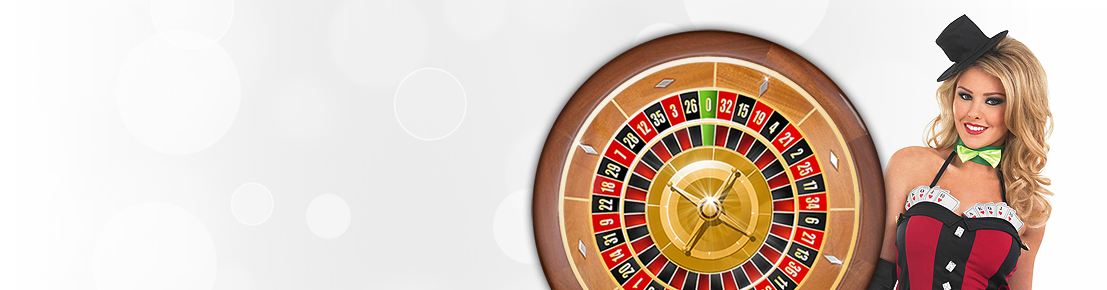
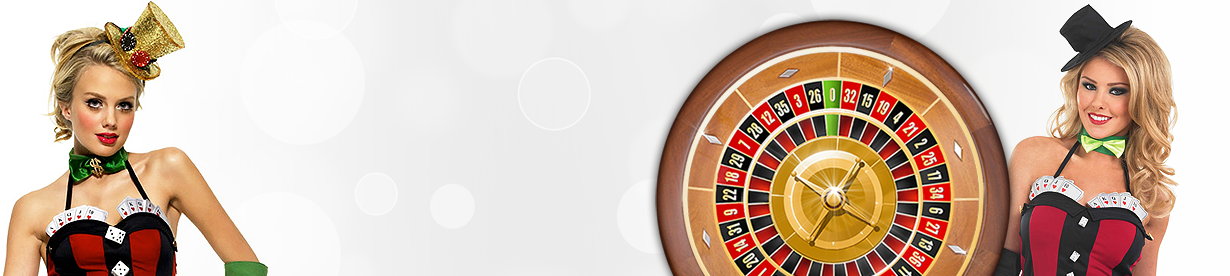
v 0.1

diff --git a/css/custom-styles.css b/css/custom-styles.css
@@ -208,26 +208,21 @@
     background-size: cover;
     margin: 0 5px 0 0;
 }
-.slider-winner .slick-arrow {
+.slider-winner-controls {
     display: block;
-    font-size: 0;
-    width: 6px;
-    height: 9px;
+    font-size: 20px;
     position: absolute;
-    top: 0;
+    top: 3px;
     bottom: 0;
     margin: auto;
     cursor: pointer;
     z-index: 10;
+    color: #ffffff;
 }
-.slider-winner .slick-prev {
-    background: transparent url('../source/images/controls-small.png') no-repeat left center;
-    background-size: cover;
+.slider-winner-left {
     left: 0;
 }
-.slider-winner .slick-next {
-    background: transparent url('../source/images/controls-small.png') no-repeat right center;
-    background-size: cover;
+.slider-winner-right {
     right: 0;
 }
 
@@ -341,7 +336,7 @@
 }
 
 .header-bottom {
-    background: #f7c437 url('../source/images/header-bottom-texture.png') repeat;
+    background: url('../source/images/header-bottom-texture.png') repeat;
 }
 .header-bottom .wrapper-inner {
     padding: 25px 0;
@@ -492,21 +487,79 @@
 ******************************/
 
 .slider-banner {
-    height: 290px;
     width: 100%;
 }
 .slider-banner .slide {
     width: 100%;
     height: 100%;
+    padding: 30px 0;
+}
+.slider-banner .slide-1 {
+    background: url('../source/images/slide-background.png') no-repeat right bottom;
+    background-size: auto 100%;
 }
 .slider-banner .slide-1 .promo-text {
-
+    width: 330px;
+    margin-left: 320px;
+}
+.slider-banner .slide-1 .promo-text p {
+    font-size: 27px;
+    font-family: 'OpenSans SemiBold', sans-serif;
+    line-height: 1.2;
+}
+.slider-banner .slide-1 .promo-text p strong {
+    font-family: 'Exo2 SemiBold', sans-serif;
+    font-size: 52px;
+    color: #ed7400;
+    text-transform: uppercase;
+    padding-bottom: 10px;
+    line-height: 1;
+}
+.slider-banner .slide-1 .promo-text button {
+    display: block;
+    width: 220px;
+    height: 60px;
+    line-height: 60px;
+    background: #f7c437 url('../source/images/button-yellow-texture.png') repeat top left;
+    background-size: auto 100%;
+    -webkit-border-radius: 50px;
+    -moz-border-radius: 50px;
+    border-radius: 50px;
+    color: #000000;
+    text-transform: uppercase;
+    font-size: 25px;
+    margin-top: 30px;
+    font-weight: 100;
+    letter-spacing: 1px;
+    text-shadow: 1px 1px 1px rgba(255, 255, 255, 1);
+}
+.slider-banner .slide-1 .promo-text button:hover {
+    background: #c5972e url('../source/images/button-yellow-texture.png') repeat top left;
+}
+.slider-banner-controls {
+    display: block;
+    font-size: 50px;
+    line-height: 50px;
+    height: 50px;
+    position: absolute;
+    top: 0;
+    bottom: 0;
+    margin: auto;
+    cursor: pointer;
+    z-index: 10;
+    color: #dbdbdb;
+}
+.slider-banner-left {
+    left: 0;
+}
+.slider-banner-right {
+    right: 0;
 }
 
 main {
     display: block;
     width: 100%;
-    background: #4076b9 url('../source/images/background-main.png') no-repeat center top;
+    background: url('../source/images/background-main.png') no-repeat center top;
 }
 
 .products-list {

diff --git a/index.html b/index.html
@@ -24,6 +24,8 @@
 
                 <div class="slider-wrapper">
 
+                    <i class="fa fa-angle-left slider-winner-controls slider-winner-left"></i>
+
                     <div class="slider-winner">
 
                         <div class="slide">
@@ -43,6 +45,8 @@
                         </div>
 
                     </div>
+
+                    <i class="fa fa-angle-right slider-winner-controls slider-winner-right"></i>
 
                 </div>
 
@@ -97,6 +101,8 @@
 
         <div class="slider-wrapper">
 
+            <i class="fa fa-angle-left slider-banner-controls slider-banner-left"></i>
+
             <div class="slider-banner">
 
                 <div class="slide slide-1">
@@ -124,6 +130,8 @@
                 </div>
 
             </div>
+
+            <i class="fa fa-angle-right slider-banner-controls slider-banner-right"></i>
 
         </div>
 

diff --git a/js/custom-scripts.js b/js/custom-scripts.js
@@ -30,6 +30,9 @@ $(document).ready(function () {
     $('.slider-winner').slick({
         slidesToShow: 1,
         slidesToScroll: 1,
+        appendArrows: '.slider-winner-controls',
+        prevArrow: '.slider-winner-left',
+        nextArrow: '.slider-winner-right',
         autoplay: true,
         autoplaySpeed: 5000
     });
@@ -37,6 +40,9 @@ $(document).ready(function () {
     $('.slider-banner').slick({
         slidesToShow: 1,
         slidesToScroll: 1,
+        appendArrows: '.slider-banner-controls',
+        prevArrow: '.slider-banner-left',
+        nextArrow: '.slider-banner-right',
         autoplay: true,
         autoplaySpeed: 6000
     });
